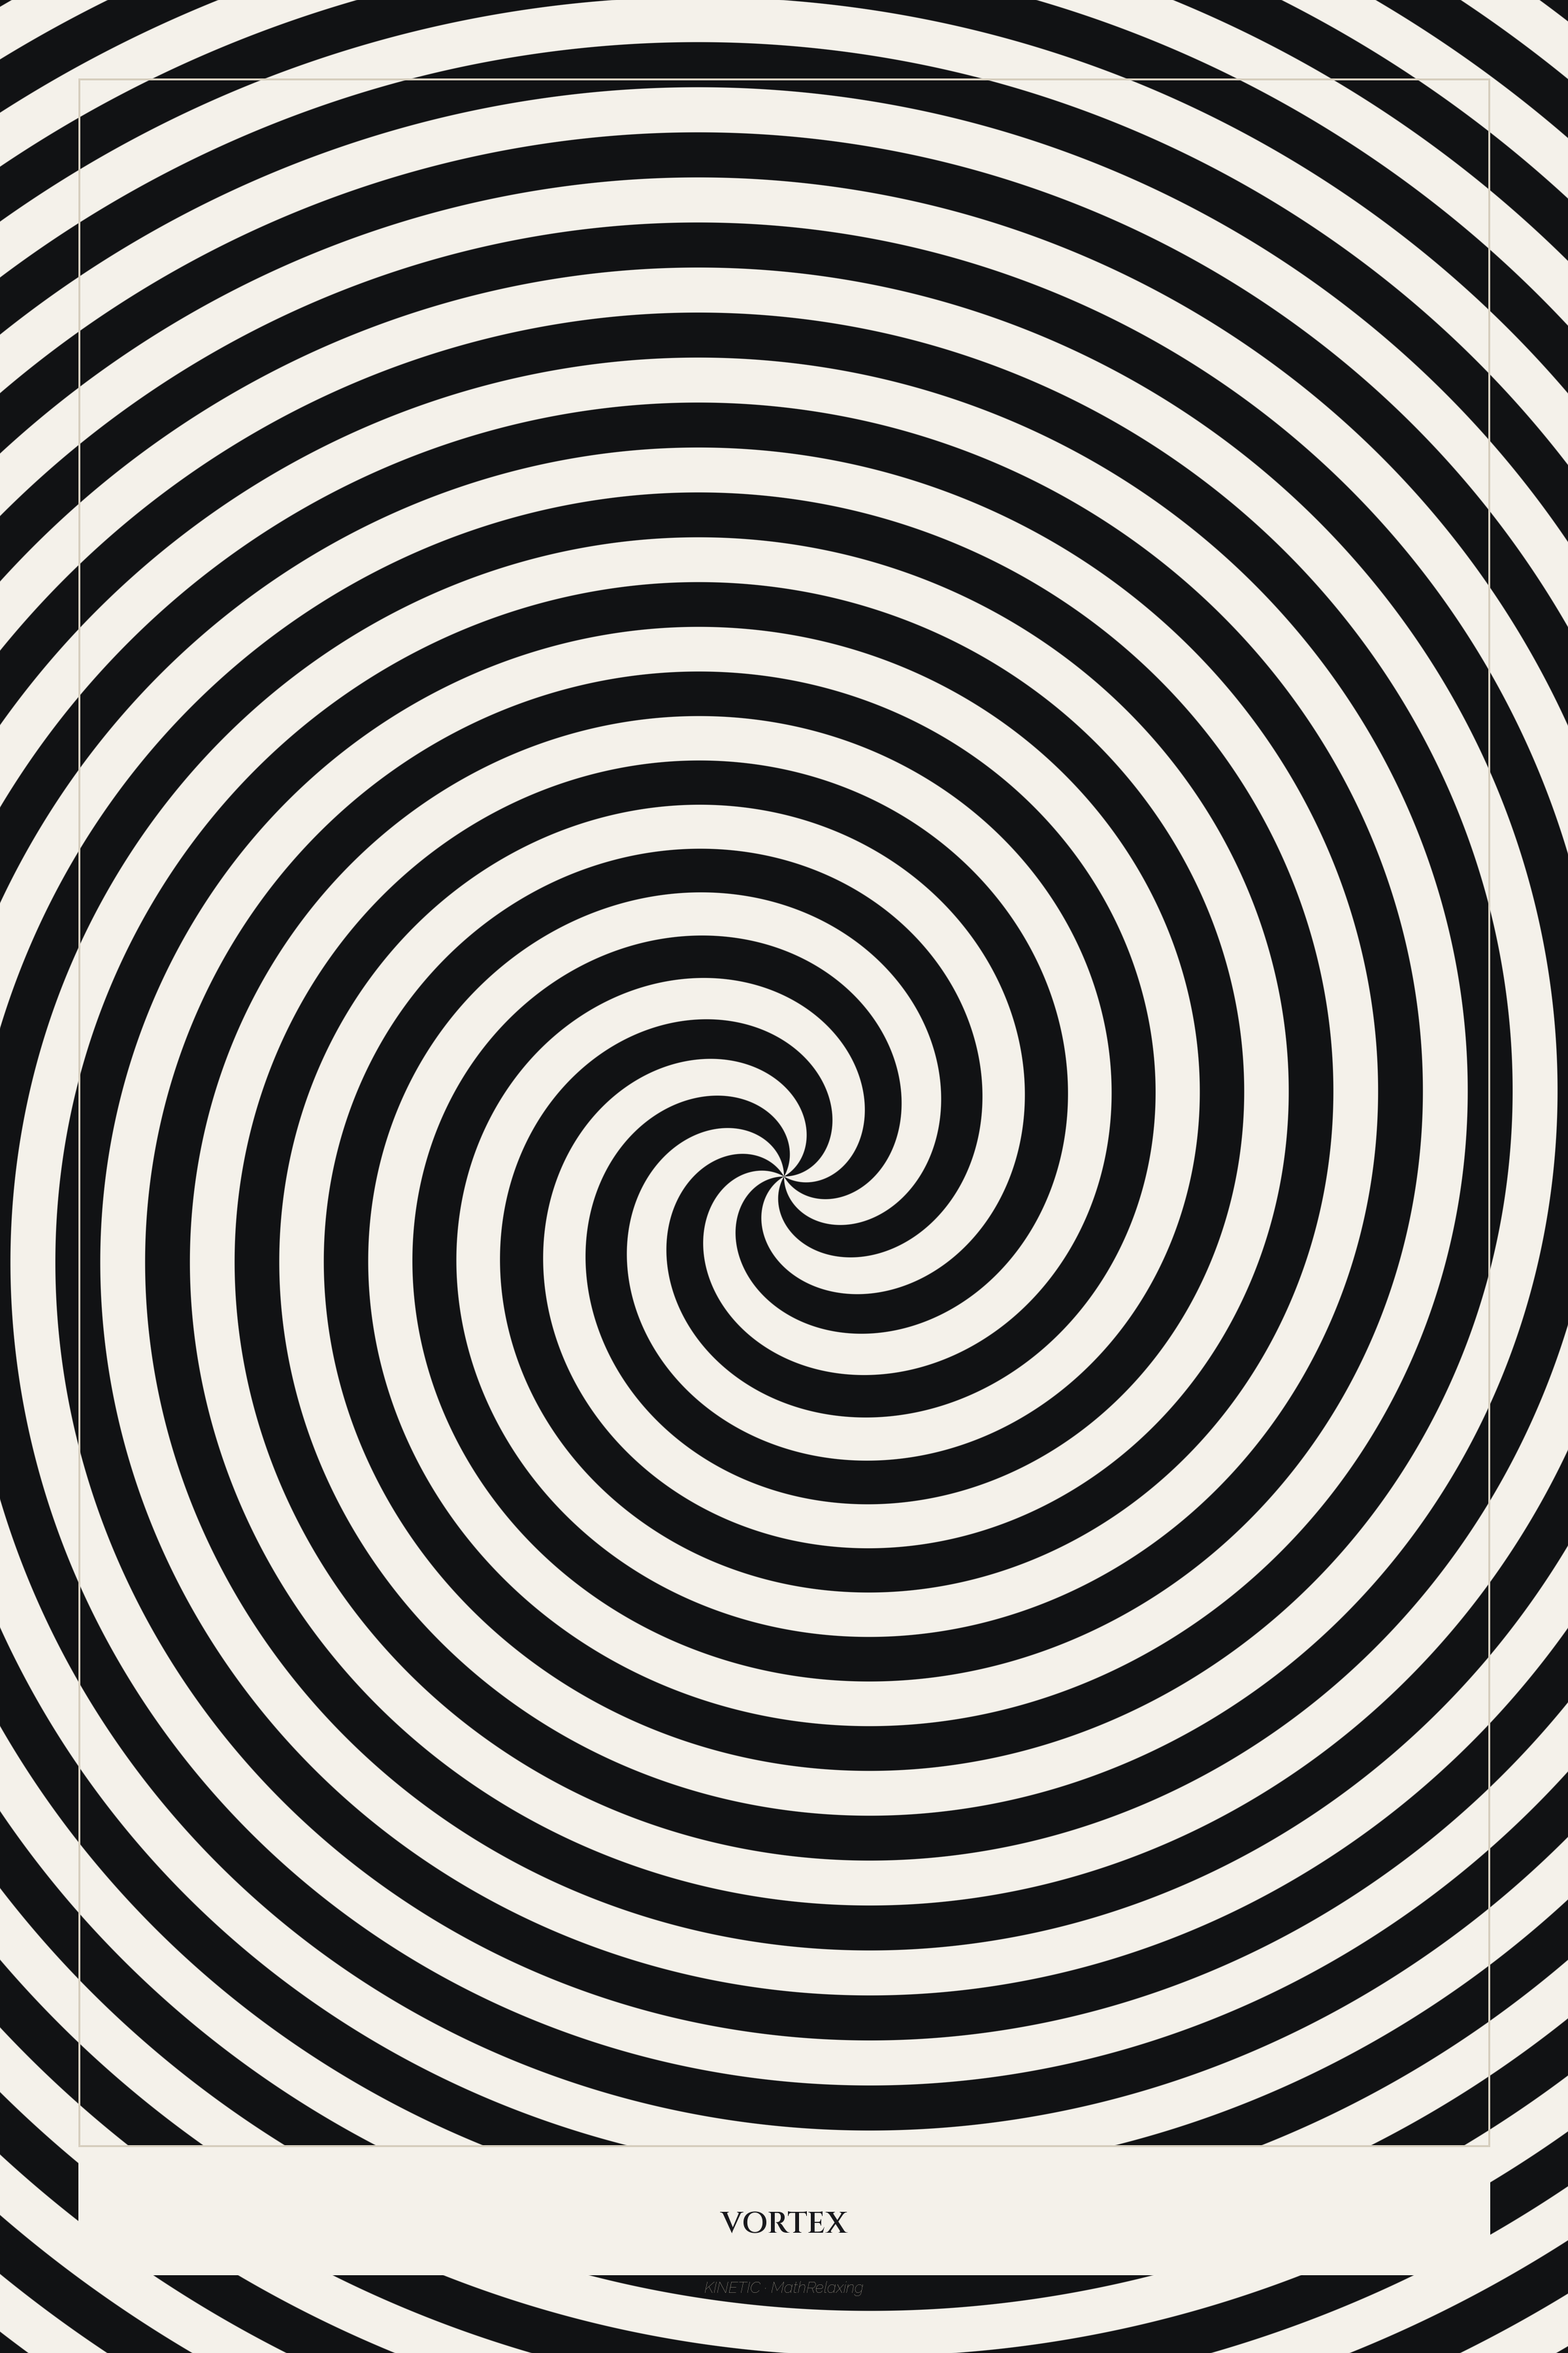
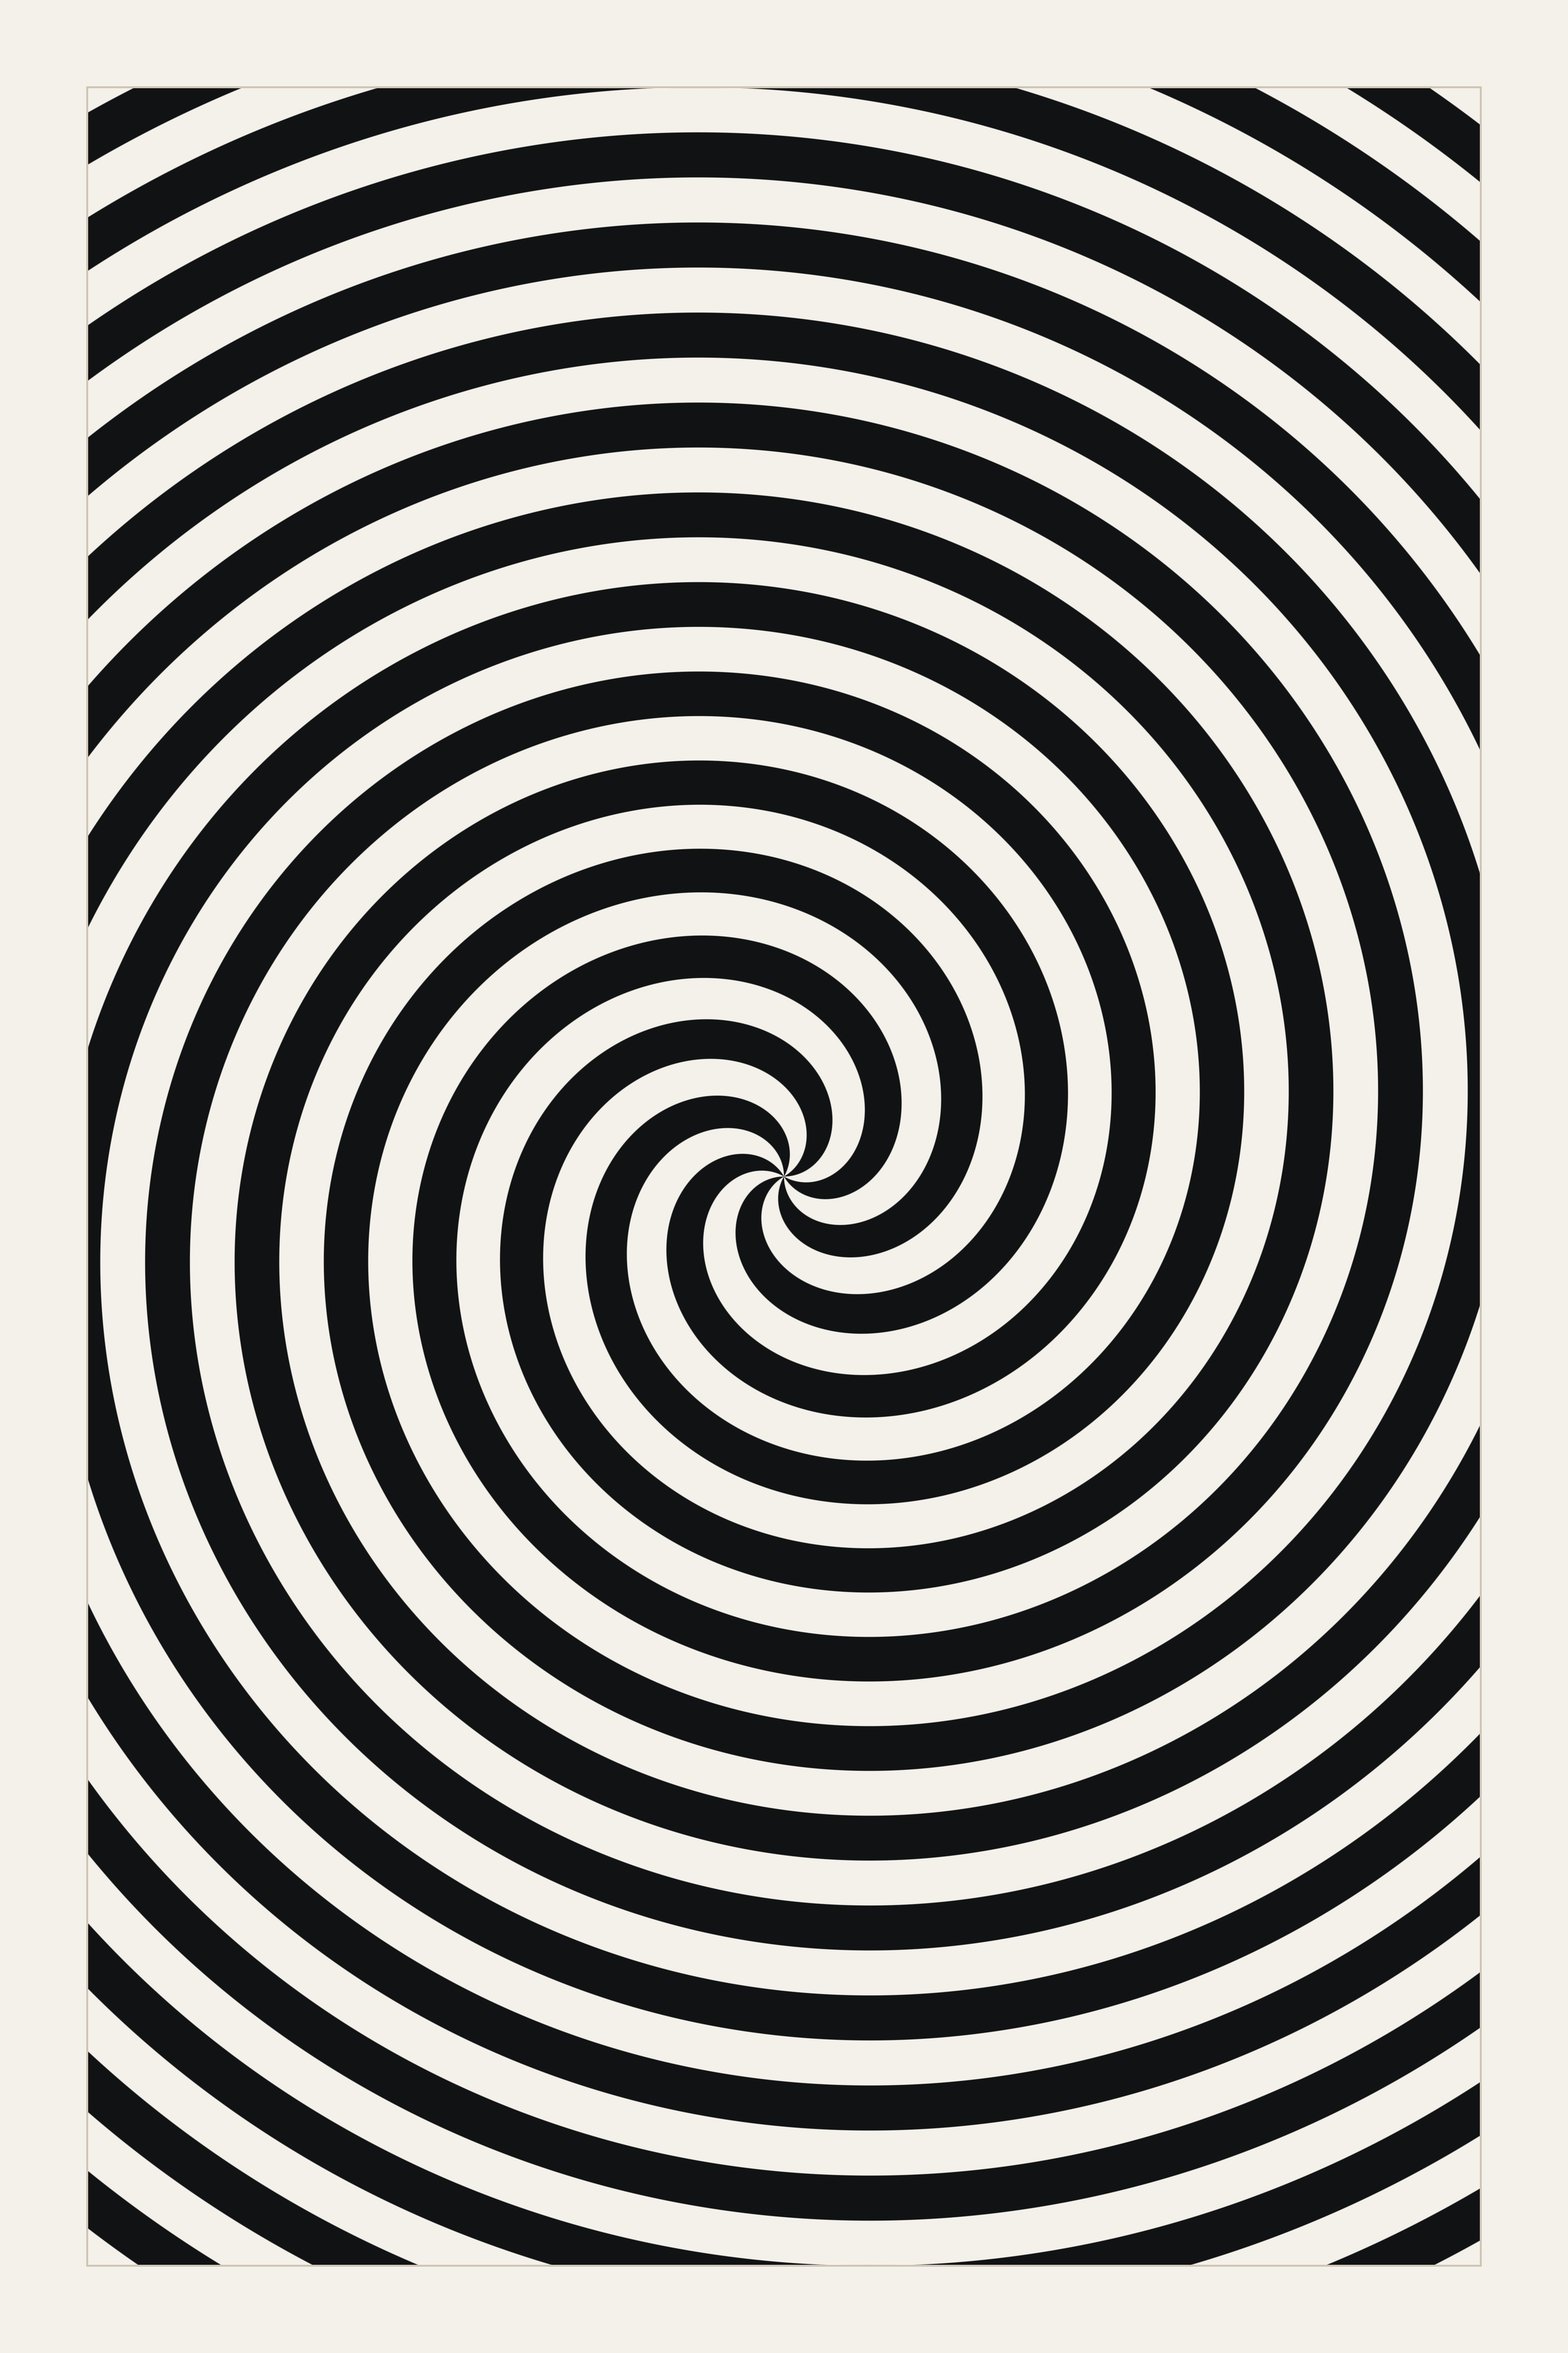
op-art: remove baked-in caption/branding text from designs
Clean full-pattern prints with a thin paper margin (no text on the sold
product). Regenerated masters; refreshed the digital listing images+files
and the 6 Printify poster print images.

Claude-Session: https://claude.ai/code/session_01BoUmYt3wo9kd8sjZ3aRKaR

Changed region(s): [[0.0, 0.0, 1.0, 1.0]]

diff --git a/op_art_set/generate_opart.py b/op_art_set/generate_opart.py
@@ -45,21 +45,18 @@ def smooth(field):
     return np.clip(0.5 + field / (2.0 * g), 0, 1)
 
 
-def render(field, name, caption):
+def render(field, name, caption=None):
+    """Clean full-pattern print (no baked-in text) with a thin paper margin."""
     inten = smooth(field)[:, :, None]
     arr = (INK * (1 - inten) + PAPER * inten).astype(np.uint8)
     im = Image.fromarray(arr, "RGB").resize((W, H), Image.LANCZOS)
-    d = ImageDraw.Draw(im)
-    m = int(W * 0.05)
-    d.rectangle((m, m, W - m, H - m), outline=(214, 206, 190), width=3)
-    # caption plate
-    d.rectangle((m, int(H * 0.912), W - m, H - m), fill=tuple(PAPER.astype(int)))
-    d.line((m, int(H * 0.912), W - m, int(H * 0.912)), fill=(214, 206, 190), width=3)
-    d.text((W // 2, int(H * 0.945)), caption, font=font("Cinzel-SemiBold.ttf", 46),
-           fill=(24, 24, 28), anchor="mm")
-    d.text((W // 2, int(H * 0.972)), "KINETIC · MathRelaxing", font=font("Raleway-Italic.ttf", 24),
-           fill=(150, 144, 132), anchor="mm")
-    im.save(os.path.join(MAST, f"{name}.png"))
+    # thin paper margin so the pattern doesn't bleed to the very edge
+    m = int(W * 0.055)
+    canvas = Image.new("RGB", (W, H), tuple(PAPER.astype(int)))
+    canvas.paste(im.crop((m, m, W - m, H - m)), (m, m))
+    ImageDraw.Draw(canvas).rectangle((m, m, W - m - 1, H - m - 1),
+                                     outline=(206, 198, 182), width=3)
+    canvas.save(os.path.join(MAST, f"{name}.png"))
     print("wrote", name)
 
 
